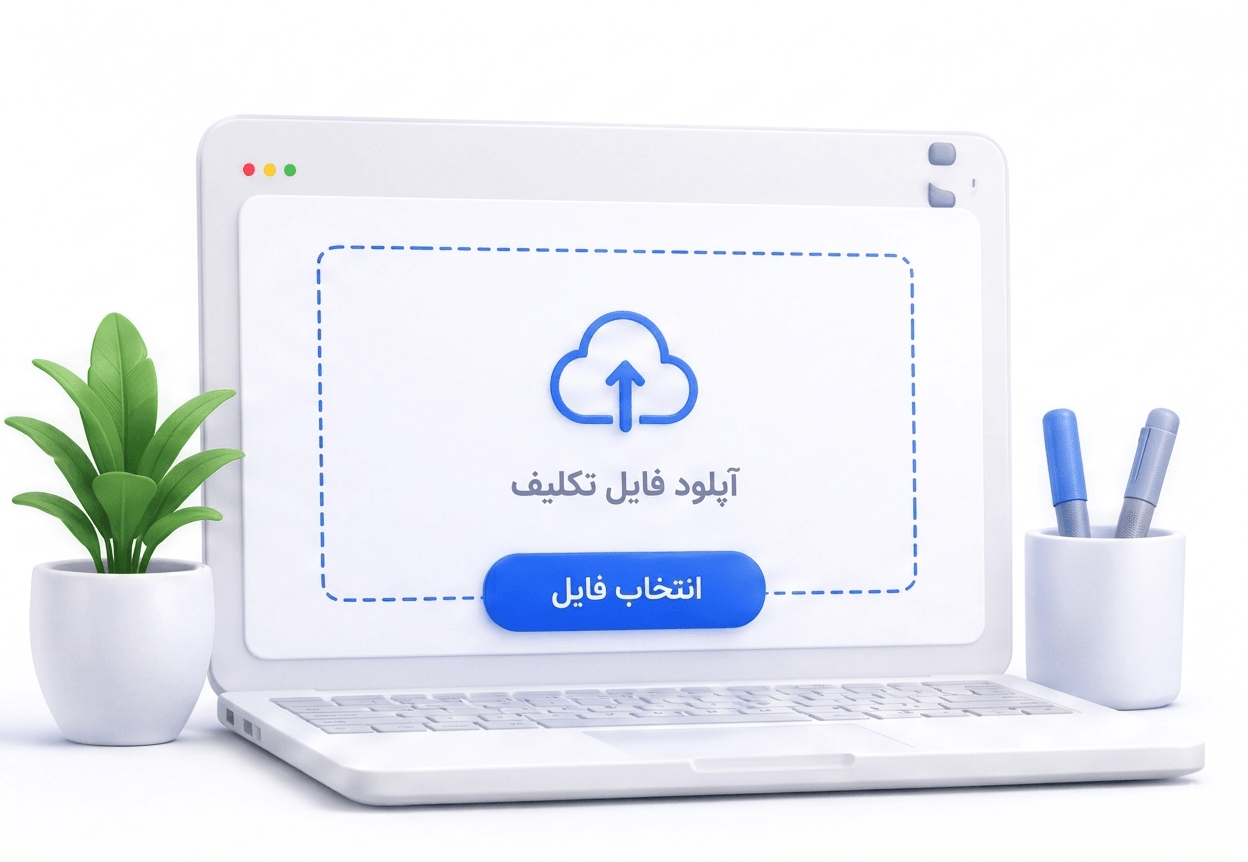
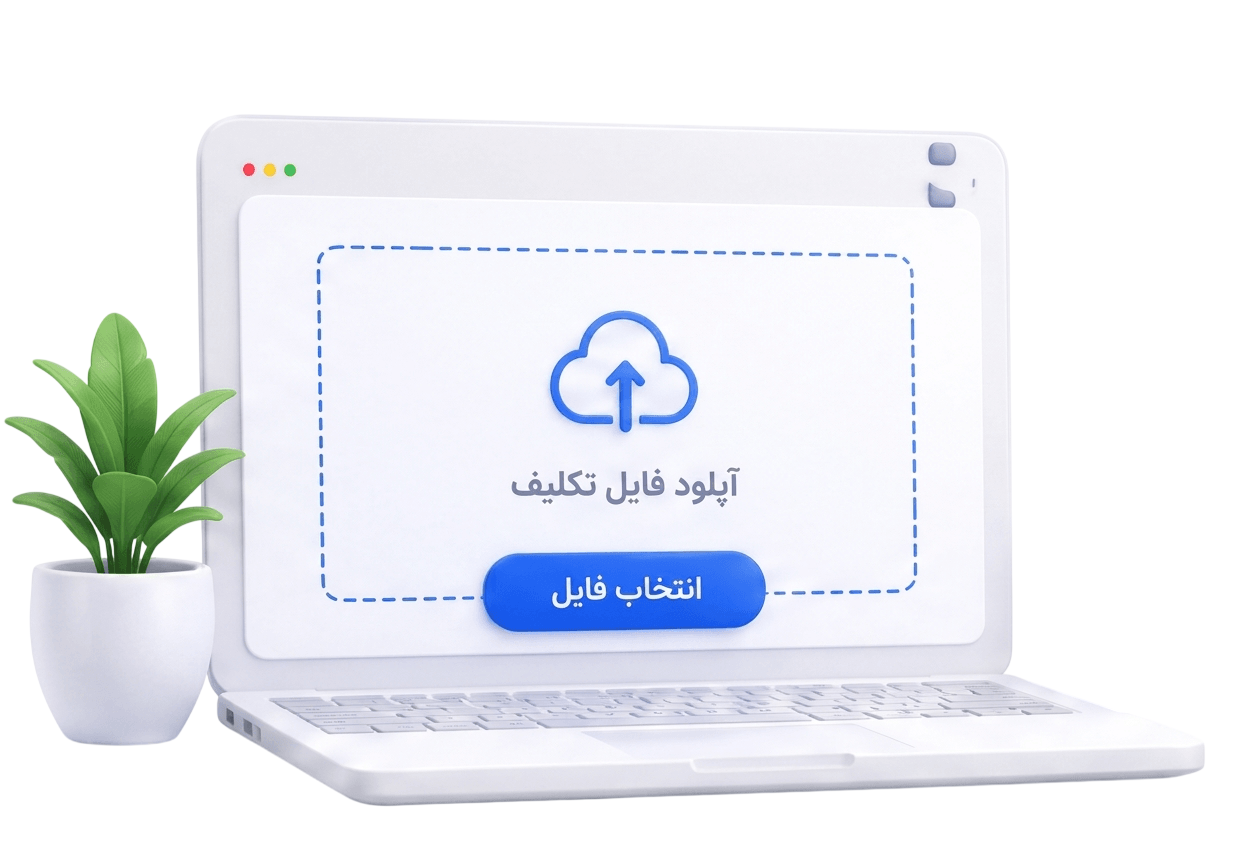
create assignment section home page

Changed region(s): [[0.8125, 0.4524, 0.9688, 0.8445], [0.0, 0.8144, 0.9688, 0.9652], [0.0625, 0.6032, 0.0938, 0.6334]]

diff --git a/frontend/src/pages/HomePage.jsx b/frontend/src/pages/HomePage.jsx
@@ -13,7 +13,12 @@ export function HomePage() {
             <section className="container grid grid-cols-2 items-center mt-20">
                 <div className="flex flex-col gap-5">
                     <div className="flex flex-col gap-5">
-                        <span className="text-primary text-xs bg-primary/10 w-fit py-2 px-5 rounded-xl font-bold">سیستم آموزشی هوشمند</span>
+                        <div className="bg-primary/10 w-fit py-2 px-5 rounded-xl font-bold flex items-center gap-1">
+                            <svg xmlns="http://www.w3.org/2000/svg" fill="none" viewBox="0 0 24 24" strokeWidth="2" stroke="currentColor" className="size-5 stroke-primary">
+                                <path strokeLinecap="round" strokeLinejoin="round" d="M4.26 10.147a60.438 60.438 0 0 0-.491 6.347A48.62 48.62 0 0 1 12 20.904a48.62 48.62 0 0 1 8.232-4.41 60.46 60.46 0 0 0-.491-6.347m-15.482 0a50.636 50.636 0 0 0-2.658-.813A59.906 59.906 0 0 1 12 3.493a59.903 59.903 0 0 1 10.399 5.84c-.896.248-1.783.52-2.658.814m-15.482 0A50.717 50.717 0 0 1 12 13.489a50.702 50.702 0 0 1 7.74-3.342M6.75 15a.75.75 0 1 0 0-1.5.75.75 0 0 0 0 1.5Zm0 0v-3.675A55.378 55.378 0 0 1 12 8.443m-7.007 11.55A5.981 5.981 0 0 0 6.75 15.75v-1.5"/>
+                            </svg>
+                            <span className="text-primary text-xs">سیستم آموزشی هوشمند</span>
+                        </div>
                         <h2 className="text-2xl font-bold">یادگیری اصولی و دقیق زبان انگلیسی در آکادمی لینگولند</h2>
                         <p className="text-sm text-text-secondary leading-8">
                             آکادمی لینگولند یک پلتفرم آموزش زبان انگلیسی آنلاین میباشد، با هدف آموزش آسان و اصولی این
@@ -28,9 +33,64 @@ export function HomePage() {
                         <Link to="" className="bg-button rounded-xl py-3 px-5 text-sm">مشاهده امکانات</Link>
                     </div>
                 </div>
-                <figure className="flex justify-end">
+                <figure className="flex justify-center">
                     <img className="w-[80%]" src="../../public/img/hero.png" alt="hero image"/>
                 </figure>
+            </section>
+
+            <section className="container grid grid-cols-2 items-center mt-40 bg-primary/3 p-5 rounded-xl">
+                <figure className="flex justify-center">
+                    <img className="w-[80%]" src="../../public/img/assignment.png" alt="assignment image"/>
+                </figure>
+                <div className="flex items-start gap-10">
+                    <span className="p-6 rounded-2xl bg-primary/3 shadow-md">
+                        <svg xmlns="http://www.w3.org/2000/svg" fill="none" viewBox="0 0 24 24" strokeWidth="2" stroke="currentColor" className="size-10 stroke-primary">
+                          <path strokeLinecap="round" strokeLinejoin="round" d="M19.5 14.25v-2.625a3.375 3.375 0 0 0-3.375-3.375h-1.5A1.125 1.125 0 0 1 13.5 7.125v-1.5a3.375 3.375 0 0 0-3.375-3.375H8.25m0 12.75h7.5m-7.5 3H12M10.5 2.25H5.625c-.621 0-1.125.504-1.125 1.125v17.25c0 .621.504 1.125 1.125 1.125h12.75c.621 0 1.125-.504 1.125-1.125V11.25a9 9 0 0 0-9-9Z"/>
+                        </svg>
+                    </span>
+                    <div>
+                        <div className="flex flex-col gap-5">
+                            <h2 className="text-2xl font-bold">تکالیف آنلاین</h2>
+                            <p className="text-sm text-text-secondary leading-8">
+                                تکالیف خود را به صورت آنلاین بارگذاری کنید وضعیت بررسی را مشاهده و کنید و بازخورد مدرس
+                                را دریافت کنید
+                                و درباره مشکلات خود با پشتیبانان آموزشی در ارتباط باشید.
+                            </p>
+                        </div>
+                        <div className="flex flex-col items-start gap-5 mt-5">
+                            <div className="flex items-center gap-2">
+                            <span className="flex">
+                                <svg xmlns="http://www.w3.org/2000/svg" fill="none" viewBox="0 0 24 24" strokeWidth="2"
+                                     stroke="currentColor" className="size-6 stroke-primary">
+                                  <path strokeLinecap="round" strokeLinejoin="round"
+                                        d="M9 12.75 11.25 15 15 9.75M21 12a9 9 0 1 1-18 0 9 9 0 0 1 18 0Z"/>
+                                </svg>
+                            </span>
+                                <span className="text-xs font-medium">ارسال فایل در انواع فرمت ها</span>
+                            </div>
+                            <div className="flex items-center gap-2">
+                            <span className="flex">
+                                <svg xmlns="http://www.w3.org/2000/svg" fill="none" viewBox="0 0 24 24" strokeWidth="2"
+                                     stroke="currentColor" className="size-6 stroke-primary">
+                                  <path strokeLinecap="round" strokeLinejoin="round"
+                                        d="M9 12.75 11.25 15 15 9.75M21 12a9 9 0 1 1-18 0 9 9 0 0 1 18 0Z"/>
+                                </svg>
+                            </span>
+                                <span className="text-xs font-medium">تعیین مهلت و یادآوری خودکار</span>
+                            </div>
+                            <div className="flex items-center gap-2">
+                            <span className="flex">
+                                <svg xmlns="http://www.w3.org/2000/svg" fill="none" viewBox="0 0 24 24" strokeWidth="2"
+                                     stroke="currentColor" className="size-6 stroke-primary">
+                                  <path strokeLinecap="round" strokeLinejoin="round"
+                                        d="M9 12.75 11.25 15 15 9.75M21 12a9 9 0 1 1-18 0 9 9 0 0 1 18 0Z"/>
+                                </svg>
+                            </span>
+                                <span className="text-xs font-medium">مشاهده و بررسی آنلاین تکالیف</span>
+                            </div>
+                        </div>
+                    </div>
+                </div>
             </section>
 
             <Footer/>

diff --git a/frontend/src/index.css b/frontend/src/index.css
@@ -68,7 +68,6 @@
 @media (min-width: 640px) {
     .container {
         max-width: 36rem;
-        padding: 0;
     }
 }
 
